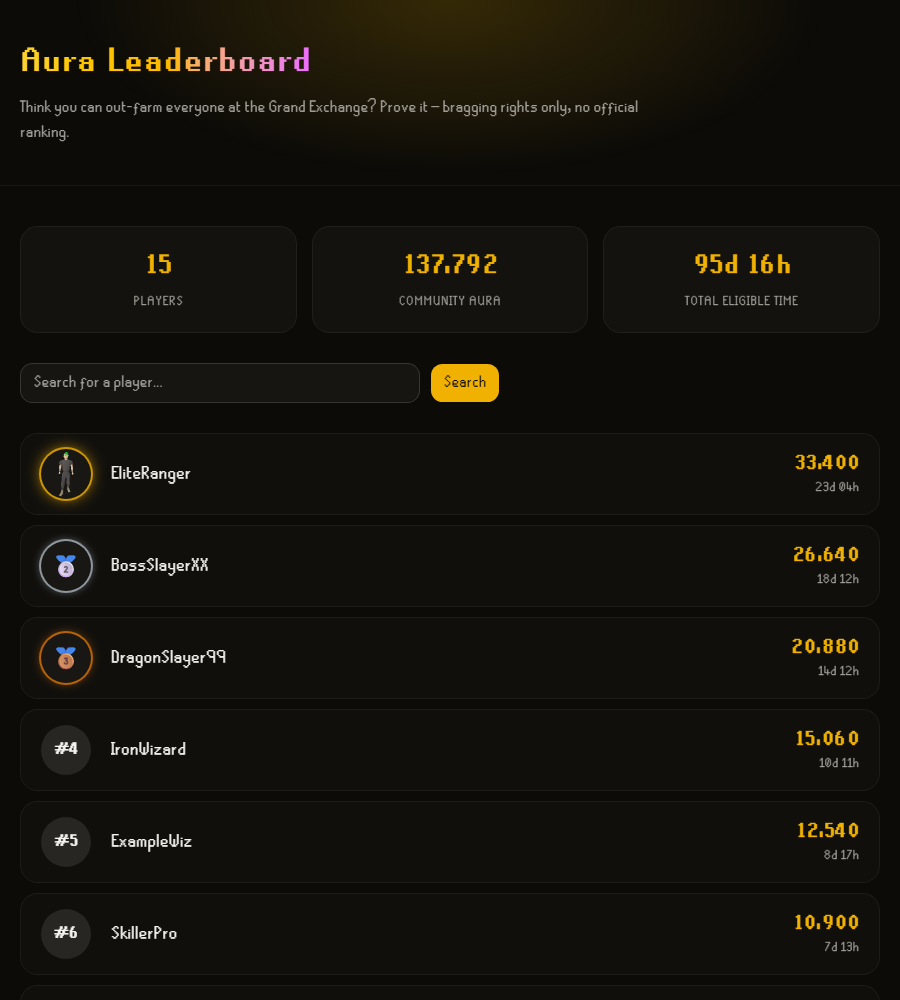
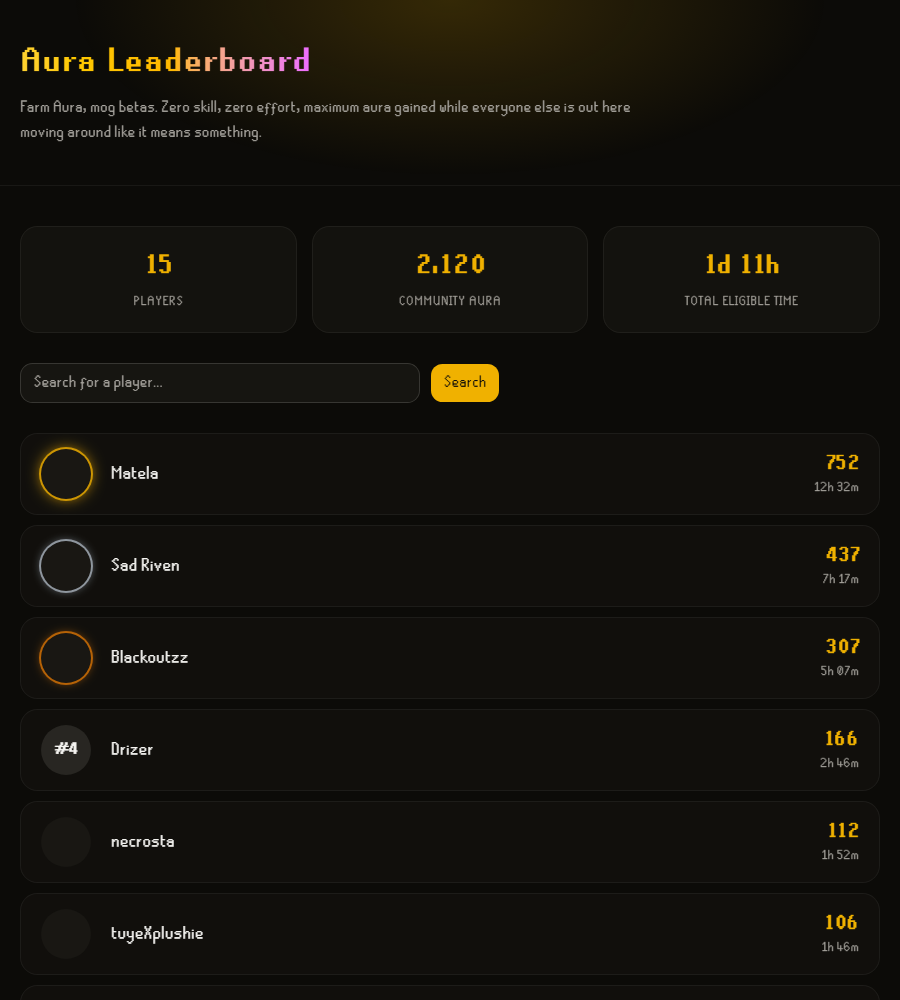
Update leaderboard screenshot with real production data
Shows the site with its new copy live, and reflects real usage instead of the old placeholder.

diff --git a/README.md b/README.md
@@ -30,7 +30,7 @@ auraPoints = eligibleSecondsElapsed / 60
 </tr>
 </table>
 
-Leaderboard/player screenshots show synthetic demo data, not a real player's account.
+The leaderboard screenshot is the real, live production ranking; the player page still shows synthetic demo data, not a real player's account.
 
 ## Data and privacy
 
